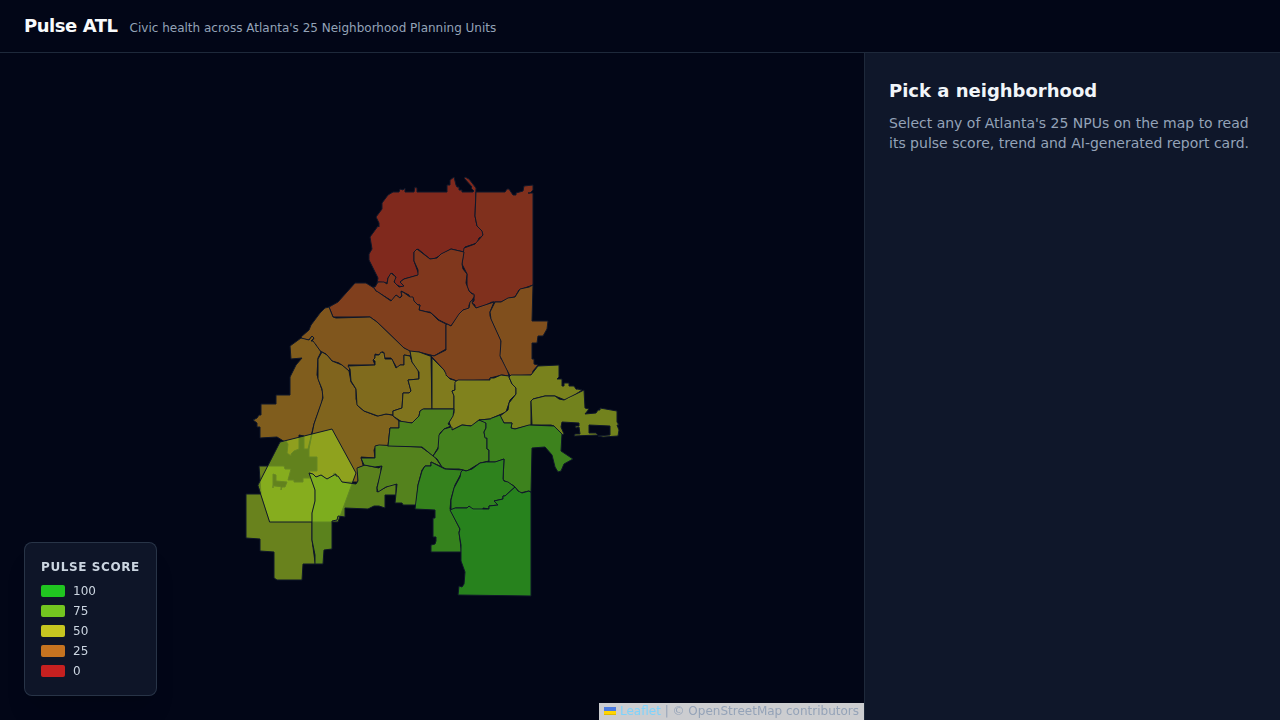
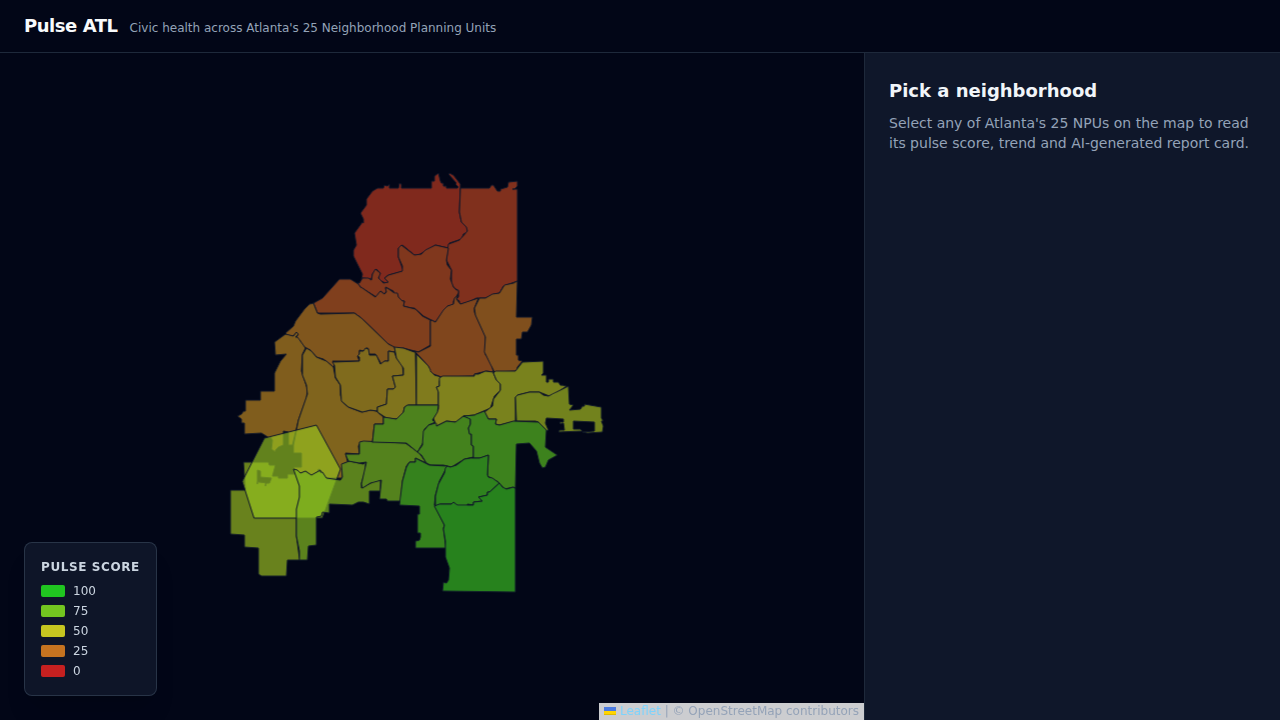
Address review: responsive gap numbers, stuck-loading fix, dialog focus trap

Changed region(s): [[0.1562, 0.2444, 0.5, 0.825]]

diff --git a/frontend/src/components/CompareView.tsx b/frontend/src/components/CompareView.tsx
@@ -1,4 +1,4 @@
-import { useEffect, useState } from "react";
+import { useEffect, useRef, useState } from "react";
 import { ApiError, fetchCompare } from "../api";
 import type { CompareResponse, NpuDetail, NpuSummary } from "../types";
 import { scoreColor } from "./PulseMap";
@@ -51,20 +51,67 @@ export default function CompareView({
   const [loading, setLoading] = useState(false);
   const [error, setError] = useState<string | null>(null);
 
+  const panelRef = useRef<HTMLDivElement>(null);
+
   useEffect(() => {
-    function onKeyDown(event: KeyboardEvent): void {
+    const panel = panelRef.current;
+    if (panel === null) {
+      return;
+    }
+    const previouslyFocused =
+      document.activeElement instanceof HTMLElement ? document.activeElement : null;
+    const focusablesIn = (): HTMLElement[] =>
+      Array.from(
+        panel.querySelectorAll<HTMLElement>(
+          'button, select, a[href], input, textarea, [tabindex]:not([tabindex="-1"])'
+        )
+      );
+
+    // Move focus into the dialog so keyboard users start inside it, not behind it.
+    focusablesIn()[0]?.focus();
+
+    // Arrow const (not a hoisted function declaration) so TypeScript keeps the
+    // non-null narrowing of `panel` inside the closure.
+    const onKeyDown = (event: KeyboardEvent): void => {
       if (event.key === "Escape") {
         onClose();
+        return;
       }
-    }
+      if (event.key !== "Tab") {
+        return;
+      }
+      // Trap Tab inside the dialog: the overlay blocks the mouse, so it must
+      // block the keyboard too.
+      const focusables = focusablesIn();
+      if (focusables.length === 0) {
+        return;
+      }
+      const first = focusables[0];
+      const last = focusables[focusables.length - 1];
+      const active = document.activeElement;
+      if (event.shiftKey && (active === first || !panel.contains(active))) {
+        event.preventDefault();
+        last.focus();
+      } else if (!event.shiftKey && (active === last || !panel.contains(active))) {
+        event.preventDefault();
+        first.focus();
+      }
+    };
+
     window.addEventListener("keydown", onKeyDown);
-    return () => window.removeEventListener("keydown", onKeyDown);
+    return () => {
+      window.removeEventListener("keydown", onKeyDown);
+      previouslyFocused?.focus();
+    };
   }, [onClose]);
 
   useEffect(() => {
     if (comparisonNpu === "") {
       setData(null);
       setError(null);
+      // Also clear loading: a fetch already in flight will have been cancelled by
+      // this effect's cleanup, so its own finally() can no longer reset the flag.
+      setLoading(false);
       return;
     }
     let cancelled = false;
@@ -105,11 +152,15 @@ export default function CompareView({
       onClick={onClose}
     >
       <div
+        ref={panelRef}
+        role="dialog"
+        aria-modal="true"
+        aria-labelledby="compare-title"
         className="w-full max-w-3xl overflow-hidden rounded-xl border border-slate-700 bg-slate-900 shadow-2xl"
         onClick={(event) => event.stopPropagation()}
       >
         <header className="flex items-center justify-between border-b border-slate-800 px-6 py-4">
-          <h2 className="text-lg font-semibold text-slate-50">
+          <h2 id="compare-title" className="text-lg font-semibold text-slate-50">
             Compare neighborhoods
           </h2>
           <button
@@ -174,7 +225,7 @@ export default function CompareView({
                     Pulse score gap
                   </p>
                   <p
-                    className="mt-1 text-6xl font-black tabular-nums text-sky-300"
+                    className="mt-1 text-4xl font-black tabular-nums text-sky-300 sm:text-6xl"
                     data-testid="compare-gap-pulse"
                   >
                     {Math.abs(data.gap.pulse_gap).toFixed(1)}
@@ -193,7 +244,7 @@ export default function CompareView({
                     </p>
                   ) : (
                     <p
-                      className="mt-1 text-6xl font-black tabular-nums text-amber-300"
+                      className="mt-1 text-4xl font-black tabular-nums text-amber-300 sm:text-6xl"
                       data-testid="compare-gap-resolution"
                     >
                       {Math.abs(data.gap.resolution_days_gap).toFixed(0)}
